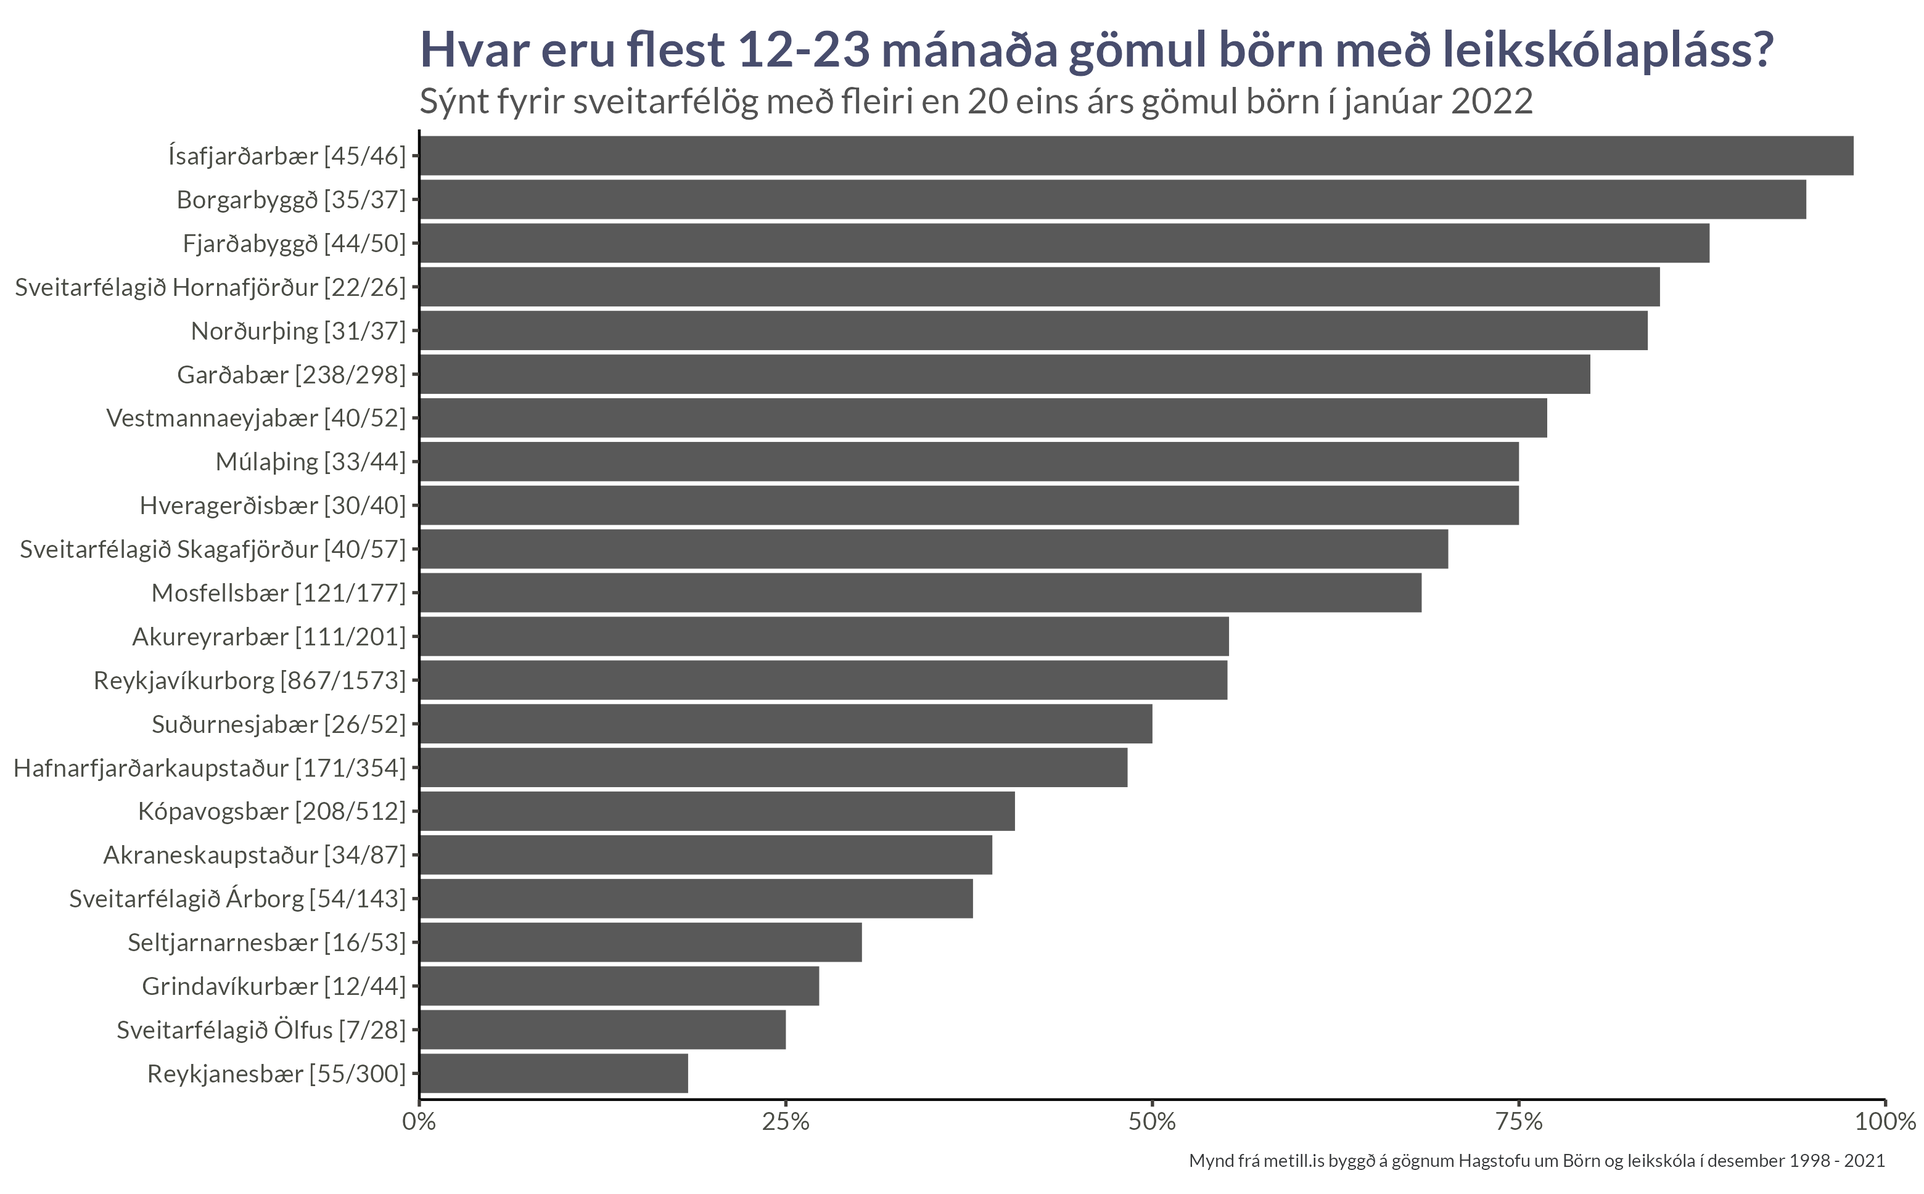
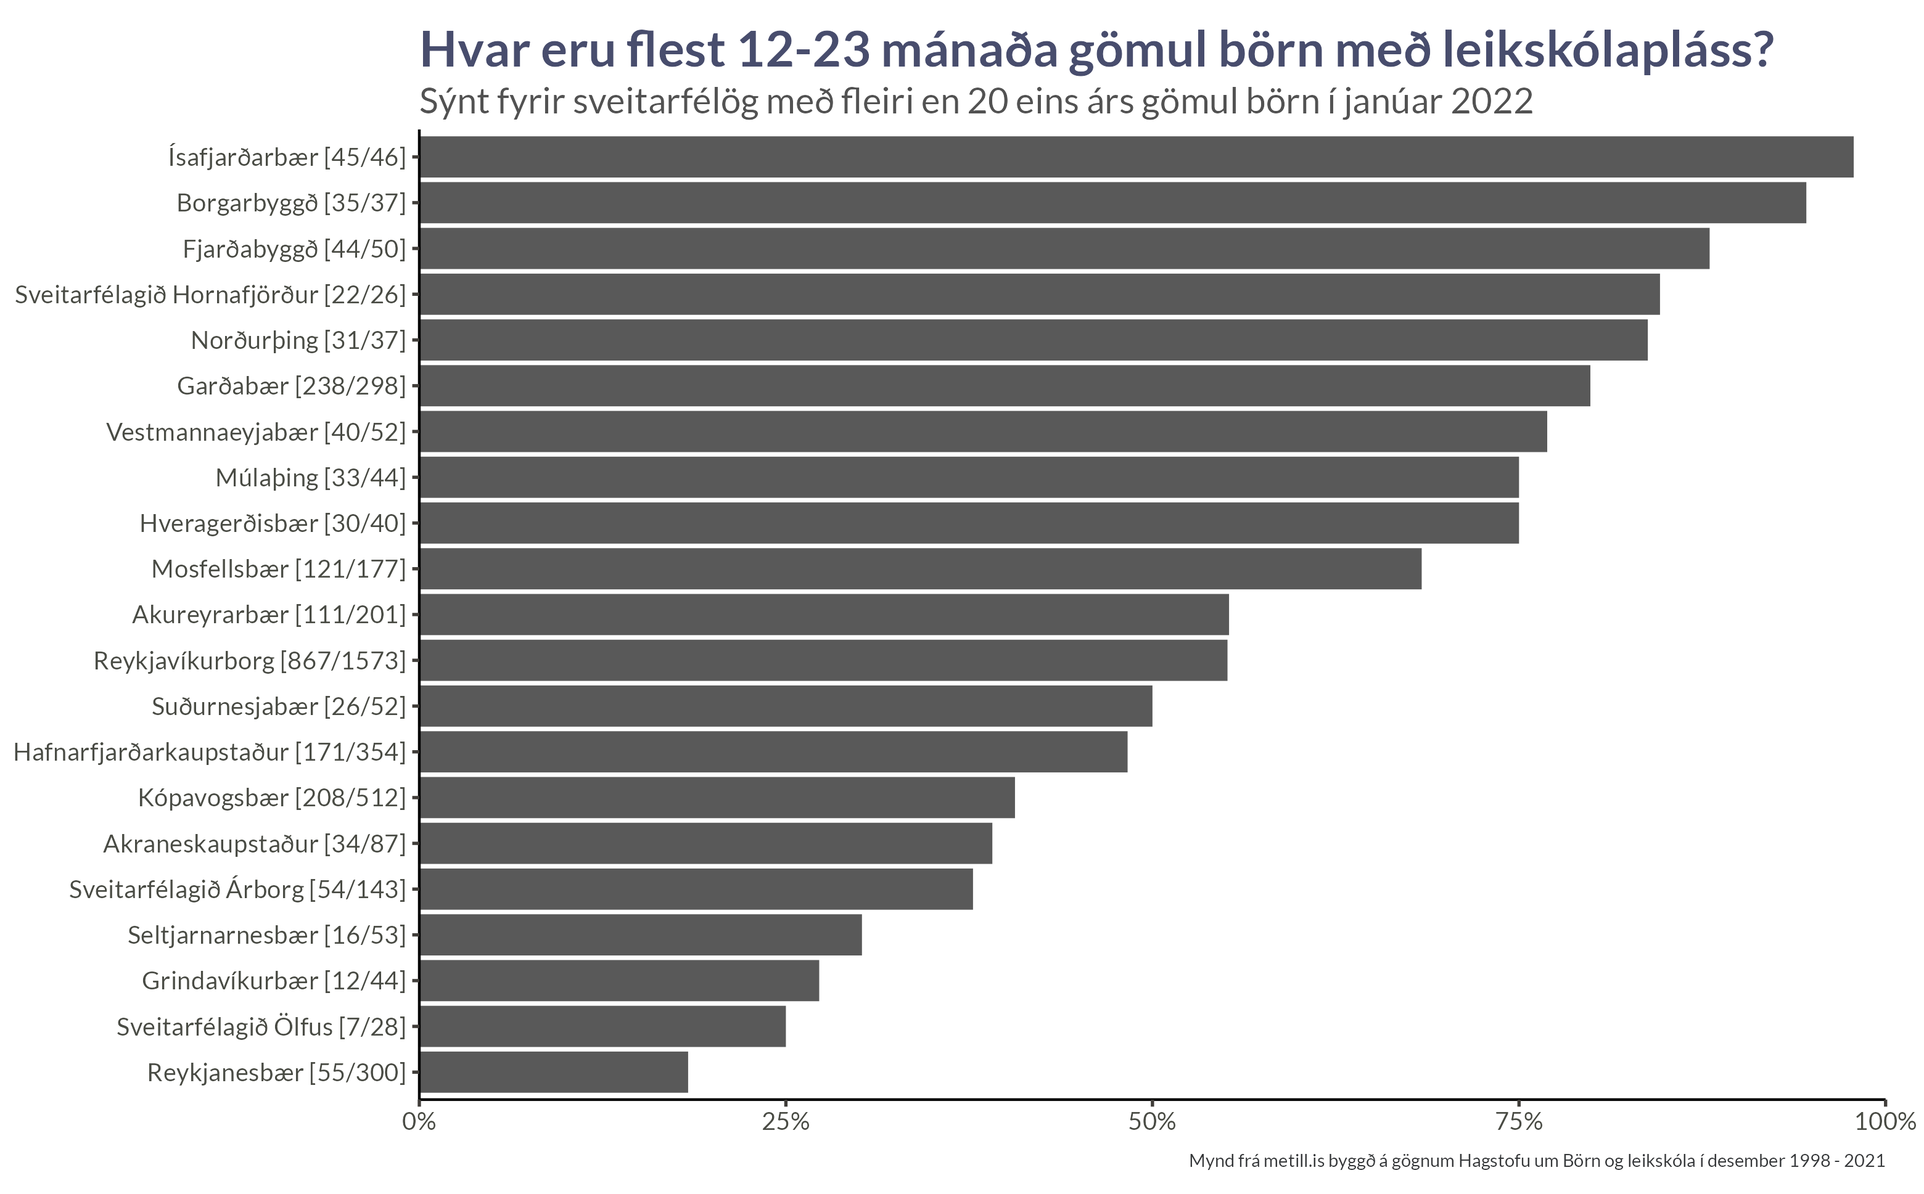
Uppfæra grein um leikskólapláss

Changed region(s): [[0.0, 0.1239, 0.9016, 0.9293], [0.2176, 0.1239, 0.9327, 0.1549]]

diff --git a/docs/greinar.html b/docs/greinar.html
@@ -81,12 +81,12 @@ ul.task-list li input[type="checkbox"] {
   })
   </script>
 <meta property="og:title" content="Greinasafn">
-<meta property="og:image" content="https://metill.is/greinar/stjornmalaflokkar/Figures/eigidfe_page.png">
+<meta property="og:image" content="https://metill.is/greinar/leikskolar/Figures/ordered_2022_fp.png">
 <meta property="og:site-name" content="Metill">
 <meta property="og:image:height" content="1937">
 <meta property="og:image:width" content="3120">
 <meta name="twitter:title" content="Greinasafn">
-<meta name="twitter:image" content="https://metill.is/greinar/stjornmalaflokkar/Figures/eigidfe_page.png">
+<meta name="twitter:image" content="https://metill.is/greinar/leikskolar/Figures/ordered_2022_fp.png">
 <meta name="twitter:creator" content="@bggjonsson">
 <meta name="twitter:site" content="@bggjonsson">
 <meta name="twitter:card" content="summary_large_image">
@@ -138,7 +138,45 @@ ul.task-list li input[type="checkbox"] {
 <p><br></p>
 <div id="listing-posts" class="quarto-listing quarto-listing-container-default">
 <div class="list quarto-listing-default">
-<div class="quarto-post image-right" data-index="0" data-categories="stjórnmál,efnahagur,ársreikningar" data-listing-date-sort="1687305600000" data-listing-file-modified-sort="1687339837435" data-listing-date-modified-sort="NaN" data-listing-reading-time-sort="24">
+<div class="quarto-post image-right" data-index="0" data-categories="sveitarfélög,skólar" data-listing-date-sort="1687910400000" data-listing-file-modified-sort="1687948439181" data-listing-date-modified-sort="NaN" data-listing-reading-time-sort="12">
+<div class="thumbnail">
+<p><a href="./greinar/leikskolar/index.html"> <img src="./greinar/leikskolar/Figures/ordered_2022_fp.png" class="thumbnail-image"> </a></p>
+</div>
+<div class="body">
+<a href="./greinar/leikskolar/index.html">
+<h3 class="no-anchor listing-title">
+Leikskólar
+</h3>
+<div class="listing-subtitle">
+Hvernig gengur sveitarfélögum landsins að brúa bilið?
+</div>
+</a>
+<div class="listing-categories">
+<div class="listing-category" onclick="window.quartoListingCategory('sveitarfélög'); return false;">
+sveitarfélög
+</div>
+<div class="listing-category" onclick="window.quartoListingCategory('skólar'); return false;">
+skólar
+</div>
+</div>
+<a href="./greinar/leikskolar/index.html">
+<div class="listing-description">
+<p>Hvernig gengur sveitarfélögum að útbúa leikskólapláss? Hvernig ber fjölda nemenda í leikskólum saman við heildarfjölda barna í hverjum árgangi? Hér skoðum við gögn Hagstofunnar um leikskóla og berum saman við mannfjöldatölur eftir aldri.</p>
+</div>
+</a>
+</div>
+<div class="metadata">
+<a href="./greinar/leikskolar/index.html">
+<div class="listing-date">
+Jun 28, 2023
+</div>
+<div class="listing-author">
+Brynjólfur Gauti Guðrúnar Jónsson
+</div>
+</a>
+</div>
+</div>
+<div class="quarto-post image-right" data-index="1" data-categories="stjórnmál,efnahagur,ársreikningar" data-listing-date-sort="1687305600000" data-listing-file-modified-sort="1687339837435" data-listing-date-modified-sort="NaN" data-listing-reading-time-sort="24">
 <div class="thumbnail">
 <p><a href="./greinar/stjornmalaflokkar/index.html"> <img src="./greinar/stjornmalaflokkar/Figures/eigidfe_page.png" class="thumbnail-image"> </a></p>
 </div>
@@ -179,7 +217,7 @@ Brynjólfur Gauti Guðrúnar Jónsson
 </a>
 </div>
 </div>
-<div class="quarto-post image-right" data-index="1" data-categories="efnahagur,verðlag,Hagstofa" data-listing-date-sort="1685059200000" data-listing-file-modified-sort="1686147444945" data-listing-date-modified-sort="NaN" data-listing-reading-time-sort="28">
+<div class="quarto-post image-right" data-index="2" data-categories="efnahagur,verðlag,Hagstofa" data-listing-date-sort="1685059200000" data-listing-file-modified-sort="1686147444945" data-listing-date-modified-sort="NaN" data-listing-reading-time-sort="28">
 <div class="thumbnail">
 <p><a href="./greinar/visitala_neysluverds/index.html"> <img src="./greinar/visitala_neysluverds/undirtolur_fp.png" class="thumbnail-image"> </a></p>
 </div>
@@ -220,7 +258,7 @@ Brynjólfur Gauti Guðrúnar Jónsson
 </a>
 </div>
 </div>
-<div class="quarto-post image-right" data-index="2" data-categories="efnahagur,vinnumarkaður,Hagstofa" data-listing-date-sort="1683158400000" data-listing-file-modified-sort="1687345945823" data-listing-date-modified-sort="NaN" data-listing-reading-time-sort="46">
+<div class="quarto-post image-right" data-index="3" data-categories="efnahagur,vinnumarkaður,Hagstofa" data-listing-date-sort="1683158400000" data-listing-file-modified-sort="1687345945823" data-listing-date-modified-sort="NaN" data-listing-reading-time-sort="46">
 <div class="thumbnail">
 <p><a href="./greinar/vinnuafl/index.html"> <img src="./greinar/vinnuafl/figures/hlutf_opinbert_fp.png" class="thumbnail-image"> </a></p>
 </div>
@@ -261,7 +299,7 @@ Brynjólfur Gauti Guðrúnar Jónsson
 </a>
 </div>
 </div>
-<div class="quarto-post image-right" data-index="3" data-categories="loftgæði,umhverfi" data-listing-date-sort="1674259200000" data-listing-file-modified-sort="1674768767434" data-listing-date-modified-sort="NaN" data-listing-reading-time-sort="1">
+<div class="quarto-post image-right" data-index="4" data-categories="loftgæði,umhverfi" data-listing-date-sort="1674259200000" data-listing-file-modified-sort="1674768767434" data-listing-date-modified-sort="NaN" data-listing-reading-time-sort="1">
 <div class="thumbnail">
 <p><a href="./greinar/loftgaedi/index.html"> <img src="https://raw.githubusercontent.com/bgautijonsson/loftgaedimyndiractions/master/Figures/combined_image_page.png" class="thumbnail-image"> </a></p>
 </div>
@@ -299,7 +337,7 @@ Brynjólfur Gauti Guðrúnar Jónsson
 </a>
 </div>
 </div>
-<div class="quarto-post image-right" data-index="4" data-categories="stjórnmál,fólksflutningar" data-listing-date-sort="1674000000000" data-listing-file-modified-sort="1677322314478" data-listing-date-modified-sort="NaN" data-listing-reading-time-sort="25">
+<div class="quarto-post image-right" data-index="5" data-categories="stjórnmál,fólksflutningar" data-listing-date-sort="1674000000000" data-listing-file-modified-sort="1687437882044" data-listing-date-modified-sort="NaN" data-listing-reading-time-sort="22">
 <div class="thumbnail">
 <p><a href="./greinar/flottafolk/index.html"> <img src="./greinar/flottafolk/Figures/vernd_saman_2_page.png" class="thumbnail-image"> </a></p>
 </div>
@@ -330,44 +368,6 @@ fólksflutningar
 <a href="./greinar/flottafolk/index.html">
 <div class="listing-date">
 Jan 18, 2023
-</div>
-<div class="listing-author">
-Brynjólfur Gauti Guðrúnar Jónsson
-</div>
-</a>
-</div>
-</div>
-<div class="quarto-post image-right" data-index="5" data-categories="sveitarfélög,skólar" data-listing-date-sort="1664928000000" data-listing-file-modified-sort="1675552796525" data-listing-date-modified-sort="NaN" data-listing-reading-time-sort="9">
-<div class="thumbnail">
-<p><a href="./greinar/leikskolar/index.html"> <img src="./greinar/leikskolar/Figures/ordered_2021_fp.png" class="thumbnail-image"> </a></p>
-</div>
-<div class="body">
-<a href="./greinar/leikskolar/index.html">
-<h3 class="no-anchor listing-title">
-Leikskólar
-</h3>
-<div class="listing-subtitle">
-Hvernig gengur sveitarfélögum landsins að brúa bilið?
-</div>
-</a>
-<div class="listing-categories">
-<div class="listing-category" onclick="window.quartoListingCategory('sveitarfélög'); return false;">
-sveitarfélög
-</div>
-<div class="listing-category" onclick="window.quartoListingCategory('skólar'); return false;">
-skólar
-</div>
-</div>
-<a href="./greinar/leikskolar/index.html">
-<div class="listing-description">
-<p>Hvernig gengur sveitarfélögum að útbúa leikskólapláss? Hvernig ber fjölda nemenda í leikskólum saman við heildarfjölda barna í hverjum árgangi? Hér skoðum við gögn Hagstofunnar um leikskóla og berum saman við mannfjöldatölur eftir aldri.</p>
-</div>
-</a>
-</div>
-<div class="metadata">
-<a href="./greinar/leikskolar/index.html">
-<div class="listing-date">
-Oct 5, 2022
 </div>
 <div class="listing-author">
 Brynjólfur Gauti Guðrúnar Jónsson
@@ -413,7 +413,7 @@ Brynjólfur Gauti Guðrúnar Jónsson
 </a>
 </div>
 </div>
-<div class="quarto-post image-right" data-index="7" data-categories="landspítali,R,íslenska" data-listing-date-sort="1661299200000" data-listing-file-modified-sort="1675428140977" data-listing-date-modified-sort="NaN" data-listing-reading-time-sort="51">
+<div class="quarto-post image-right" data-index="7" data-categories="landspítali,R,íslenska" data-listing-date-sort="1661299200000" data-listing-file-modified-sort="1687384479138" data-listing-date-modified-sort="NaN" data-listing-reading-time-sort="51">
 <div class="thumbnail">
 <p><a href="./greinar/landspitali/index.html"> <img src="./greinar/landspitali/hjukthyngd_fp.png" class="thumbnail-image"> </a></p>
 </div>

diff --git a/docs/greinar/leikskolar/index.html b/docs/greinar/leikskolar/index.html
@@ -7,7 +7,7 @@
 <meta name="viewport" content="width=device-width, initial-scale=1.0, user-scalable=yes">
 
 <meta name="author" content="Brynjólfur Gauti Guðrúnar Jónsson">
-<meta name="dcterms.date" content="2022-10-05">
+<meta name="dcterms.date" content="2023-06-28">
 <meta name="description" content="Hvernig gengur sveitarfélögum að útbúa leikskólapláss? Hvernig ber fjölda nemenda í leikskólum saman við heildarfjölda barna í hverjum árgangi? Hér skoðum við gögn Hagstofunnar um leikskóla og berum saman við mannfjöldatölur eftir aldri.">
 
 <title>Leikskólar</title>
@@ -55,13 +55,13 @@ ul.task-list li input[type="checkbox"] {
 <style>html{ scroll-behavior: smooth; }</style>
 <meta property="og:title" content="Leikskólar">
 <meta property="og:description" content="Hvernig gengur sveitarfélögum að útbúa leikskólapláss? Hvernig ber fjölda nemenda í leikskólum saman við heildarfjölda barna í hverjum árgangi? Hér skoðum við gögn Hagstofunnar um leikskóla og berum saman við mannfjöldatölur eftir aldri.">
-<meta property="og:image" content="https://metill.is/greinar/leikskolar/Figures/ordered_2021_fp.png">
+<meta property="og:image" content="https://metill.is/greinar/leikskolar/Figures/ordered_2022_fp.png">
 <meta property="og:site-name" content="Metill">
 <meta property="og:image:height" content="1937">
 <meta property="og:image:width" content="3120">
 <meta name="twitter:title" content="Leikskólar">
 <meta name="twitter:description" content="Hvernig gengur sveitarfélögum að útbúa leikskólapláss? Hvernig ber fjölda nemenda í leikskólum saman við heildarfjölda barna í hverjum árgangi? Hér skoðum við gögn Hagstofunnar um leikskóla og berum saman við mannfjöldatölur eftir aldri.">
-<meta name="twitter:image" content="https://metill.is/greinar/leikskolar/Figures/ordered_2021_fp.png">
+<meta name="twitter:image" content="https://metill.is/greinar/leikskolar/Figures/ordered_2022_fp.png">
 <meta name="twitter:creator" content="@bggjonsson">
 <meta name="twitter:site" content="@bggjonsson">
 <meta name="twitter:card" content="summary_large_image">
@@ -136,7 +136,7 @@ ul.task-list li input[type="checkbox"] {
       <div>
       <div class="quarto-title-meta-heading">Síðast uppfært</div>
       <div class="quarto-title-meta-contents">
-        <p class="date">October 5, 2022</p>
+        <p class="date">June 28, 2023</p>
       </div>
     </div>
     
@@ -154,18 +154,18 @@ ul.task-list li input[type="checkbox"] {
 
 
 
-<p>Hagstofan gefur árlega út gögn um fjölda nemenda í leikskólum landsins. Tölurnar eiga við um fjöldann í desembermánuði árið á undan. Til að fá sem raunsæsta mynd á hlutfall barna með leikskólapláss er best að bera þann fjölda saman við stærð árgangsins í janúar mánuði síðar.</p>
+<p>Hagstofan gefur árlega út gögn um fjölda nemenda í leikskólum landsins. Tölurnar eiga við um fjöldann í desembermánuði árið á undan. Til að fá sem raunsæsta mynd á hlutfall barna með leikskólapláss er best að bera þann fjölda saman við stærð árgangsins í janúar mánuði síðar frekar en janúar sama ár (ellefu mánuðum fyrr).</p>
 <section id="eins-árs-gömul-börn" class="level1 page-columns page-full">
 <h1>Eins árs gömul börn</h1>
 <p>Mest er talað um fjölda eins árs barna svo við byrjum á að skoða þær tölur</p>
-<p class="page-columns page-full"><img src="Figures/ordered_2021.png" class="column-page img-fluid"></p>
+<p class="page-columns page-full"><img src="Figures/ordered_2022.png" class="column-page img-fluid"></p>
 <p>En hvernig hefur þetta hlutfall þróast undanfarin ár? Skoðum þróunina hjá þeim 16 sveitarfélögum sem hafa haft stærstu árgangana síðustu árin</p>
 <p class="page-columns page-full"><img src="Figures/hlutf_1ars.png" class="column-screen-inset img-fluid"></p>
 </section>
 <section id="heildarfjöldi-leikskólaplássa" class="level1 page-columns page-full">
 <h1>Heildarfjöldi leikskólaplássa</h1>
-<p>Endurtökum þetta nú fyrir leikskólana í heild sinni. Þá skoðum við heildarfjölda nemenda í leikskólum sem hlutfall af fjölda barna á aldrinum 1 árs til 5 ára. Við sjáum að neðan að stundum benda gögnin til þess að fleiri börn eru í leikskólum heldur en eru í árganginum. Þetta getur alltaf gerst þar sem við erum að skoða fjöldatölur í árgangi mánuði seinna en fjöldatölur í leikskólum.</p>
-<p class="page-columns page-full"><img src="Figures/ordered_total_2021.png" class="column-page img-fluid"></p>
+<p>Endurtökum þetta nú fyrir leikskólana í heild sinni. Þá skoðum við heildarfjölda nemenda í leikskólum sem hlutfall af fjölda barna á aldrinum 1 árs til 5 ára. Við sjáum að neðan að stundum benda gögnin til þess að fleiri börn eru í leikskólum heldur en eru í árganginum. Þetta getur gerst þar sem við erum að skoða fjöldatölur í árgangi mánuði seinna en fjöldatölur í leikskólum.</p>
+<p class="page-columns page-full"><img src="Figures/ordered_total_2022.png" class="column-page img-fluid"></p>
 <p>Skoðum þróunina núna fyrir sömu 16 sveitarfélög og að ofan.</p>
 <p class="page-columns page-full"><img src="Figures/hlutf_total.png" class="column-screen-inset img-fluid"></p>
 

diff --git a/docs/index.html b/docs/index.html
@@ -110,12 +110,12 @@ ul.task-list li input[type="checkbox"] {
   })
   </script>
 <meta property="og:title" content="Metill">
-<meta property="og:image" content="https://metill.is/greinar/stjornmalaflokkar/Figures/eigidfe_page.png">
+<meta property="og:image" content="https://metill.is/greinar/leikskolar/Figures/ordered_2022_fp.png">
 <meta property="og:site-name" content="Metill">
 <meta property="og:image:height" content="1937">
 <meta property="og:image:width" content="3120">
 <meta name="twitter:title" content="Metill">
-<meta name="twitter:image" content="https://metill.is/greinar/stjornmalaflokkar/Figures/eigidfe_page.png">
+<meta name="twitter:image" content="https://metill.is/greinar/leikskolar/Figures/ordered_2022_fp.png">
 <meta name="twitter:creator" content="@bggjonsson">
 <meta name="twitter:site" content="@bggjonsson">
 <meta name="twitter:card" content="summary_large_image">
@@ -168,23 +168,34 @@ ul.task-list li input[type="checkbox"] {
       <div class="container col-12 col-md-12 col-lg-11 col-xxl-10 px-4 py-2">
         <div class="row">
           <div class="col justify-content-center">
-            <h1 class="display-5 fw-bold lh-1 mb-3 text-primary text-center"> Fjármál stjórnmálaflokkanna </h1>
-            <h3 class="text-primary m-0 p-0 text-center anchored"> Greining á ársreikningum stjórnmálaflokka úr gögnum Ríkisendurskoðunar </h3>
+            <h1 class="display-5 fw-bold lh-1 mb-3 text-primary text-center"> Leikskólar </h1>
+            <h3 class="text-primary m-0 p-0 text-center anchored"> Hvernig gengur sveitarfélögum landsins að brúa bilið? </h3>
           </div>
         </div>
         <div class="row flex-lg-row-reverse align-items-center g-1 pb-0">
           <div class="col-md-12 col-lg-6 col-xl-6 col-xxl-6 mx-auto">
-            <img src="./greinar/stjornmalaflokkar/Figures/eigidfe_page.png" class="d-block mx-lg-auto img-fluid px-1 mx-1" alt="Bootstrap Themes" width="700" height="500" loading="lazy">
+            <img src="./greinar/leikskolar/Figures/ordered_2022_fp.png" class="d-block mx-lg-auto img-fluid px-1 mx-1" alt="Bootstrap Themes" width="700" height="500" loading="lazy">
           </div>
           <div class="col-md-12 col-lg-6 col-xl-6 col-xxl-6 mx-auto">
-            <p class="lead text-muted text-break fs-6 px-2 mx-2"> Hversu miklar tekjur hafa stjórnmálaflokkarnir og hvaðan koma þær? Hækka útgjöld þeirra sjáanlega í kringum kosningar og eiga þeir einhverjar eignir? Hér köfum við ofan í ársreikninga stjórnmálaflokkanna.
+            <p class="lead text-muted text-break fs-6 px-2 mx-2"> Hvernig gengur sveitarfélögum að útbúa leikskólapláss? Hvernig ber fjölda nemenda í leikskólum saman við heildarfjölda barna í hverjum árgangi? Hér skoðum við gögn Hagstofunnar um leikskóla og berum saman við mannfjöldatölur eftir aldri.
  </p>
           </div>
         </div>
       </div>
-      <a href="./greinar/stjornmalaflokkar/index.html" class="stretched-link"></a>
+      <a href="./greinar/leikskolar/index.html" class="stretched-link"></a>
   </div>
   <div class="row">
+      <div class="col-md-4 p-0 d-flex">
+        <div class="card listing-card shadow-sm border-2 rounded-3 g-col-12 g-col-sm-6 g-col-md-4 mb-2">
+          <img src="./greinar/stjornmalaflokkar/Figures/eigidfe_page.png" class="card-img-top mb-0 pb-0">
+          <div class="card-body">
+            <h3 class="text-primary m-0 p-0 anchored"> Fjármál stjórnmálaflokkanna </h3>
+            <div class="mb-1 text-muted"> Jun 21, 2023 </div>
+            <p class="card-text mb-auto text-muted"> Greining á ársreikningum stjórnmálaflokka úr gögnum Ríkisendurskoðunar </p>
+            <a href="./greinar/stjornmalaflokkar/index.html" class="stretched-link" style="text-decoration:none;"></a>
+          </div>
+        </div>  
+      </div>
       <div class="col-md-4 p-0 d-flex">
         <div class="card listing-card shadow-sm border-2 rounded-3 g-col-12 g-col-sm-6 g-col-md-4 mb-2">
           <img src="./greinar/visitala_neysluverds/undirtolur_fp.png" class="card-img-top mb-0 pb-0">
@@ -204,17 +215,6 @@ ul.task-list li input[type="checkbox"] {
             <div class="mb-1 text-muted"> May 4, 2023 </div>
             <p class="card-text mb-auto text-muted"> Hver er fjöldi starfandi einstaklinga og hvernig skiptast þeir á vinnumarkaði? </p>
             <a href="./greinar/vinnuafl/index.html" class="stretched-link" style="text-decoration:none;"></a>
-          </div>
-        </div>  
-      </div>
-      <div class="col-md-4 p-0 d-flex">
-        <div class="card listing-card shadow-sm border-2 rounded-3 g-col-12 g-col-sm-6 g-col-md-4 mb-2">
-          <img src="https://raw.githubusercontent.com/bgautijonsson/loftgaedimyndiractions/master/Figures/combined_image_page.png" class="card-img-top mb-0 pb-0">
-          <div class="card-body">
-            <h3 class="text-primary m-0 p-0 anchored"> Loftgæði </h3>
-            <div class="mb-1 text-muted"> Jan 21, 2023 </div>
-            <p class="card-text mb-auto text-muted"> Samantekt á mælingum köfnunarefnisdíoxíðs (NO2) við Grensásveg </p>
-            <a href="./greinar/loftgaedi/index.html" class="stretched-link" style="text-decoration:none;"></a>
           </div>
         </div>  
       </div>
